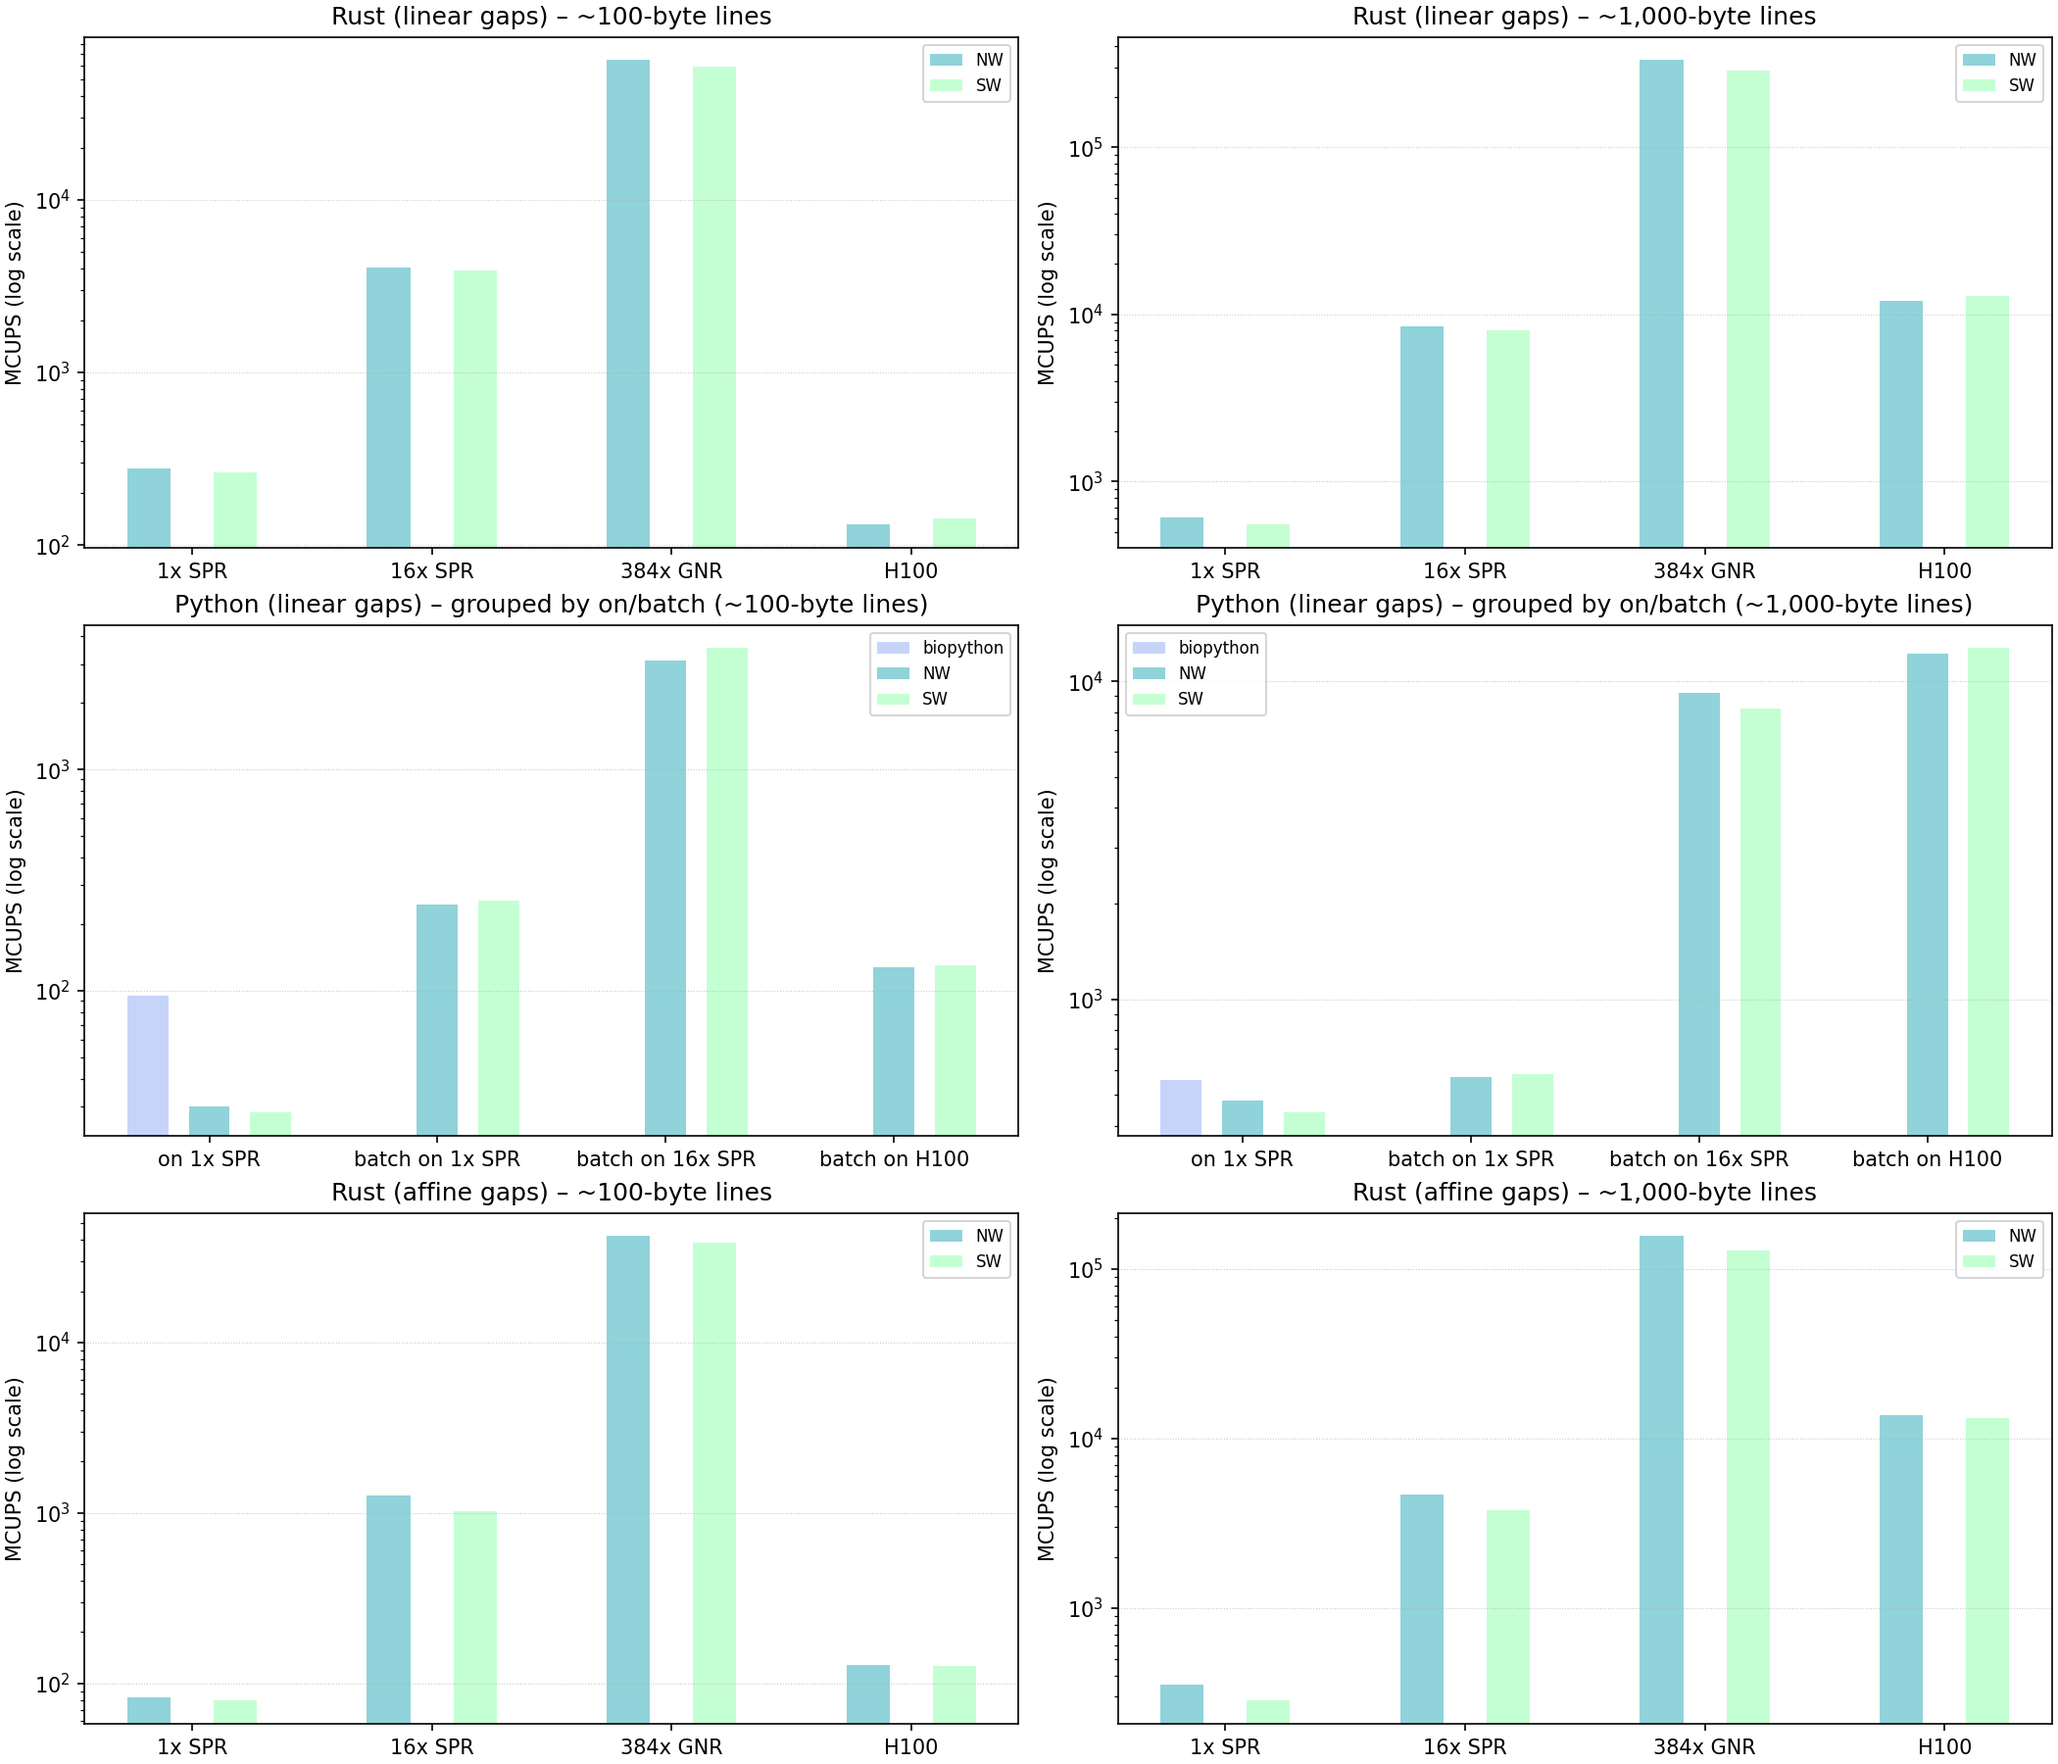
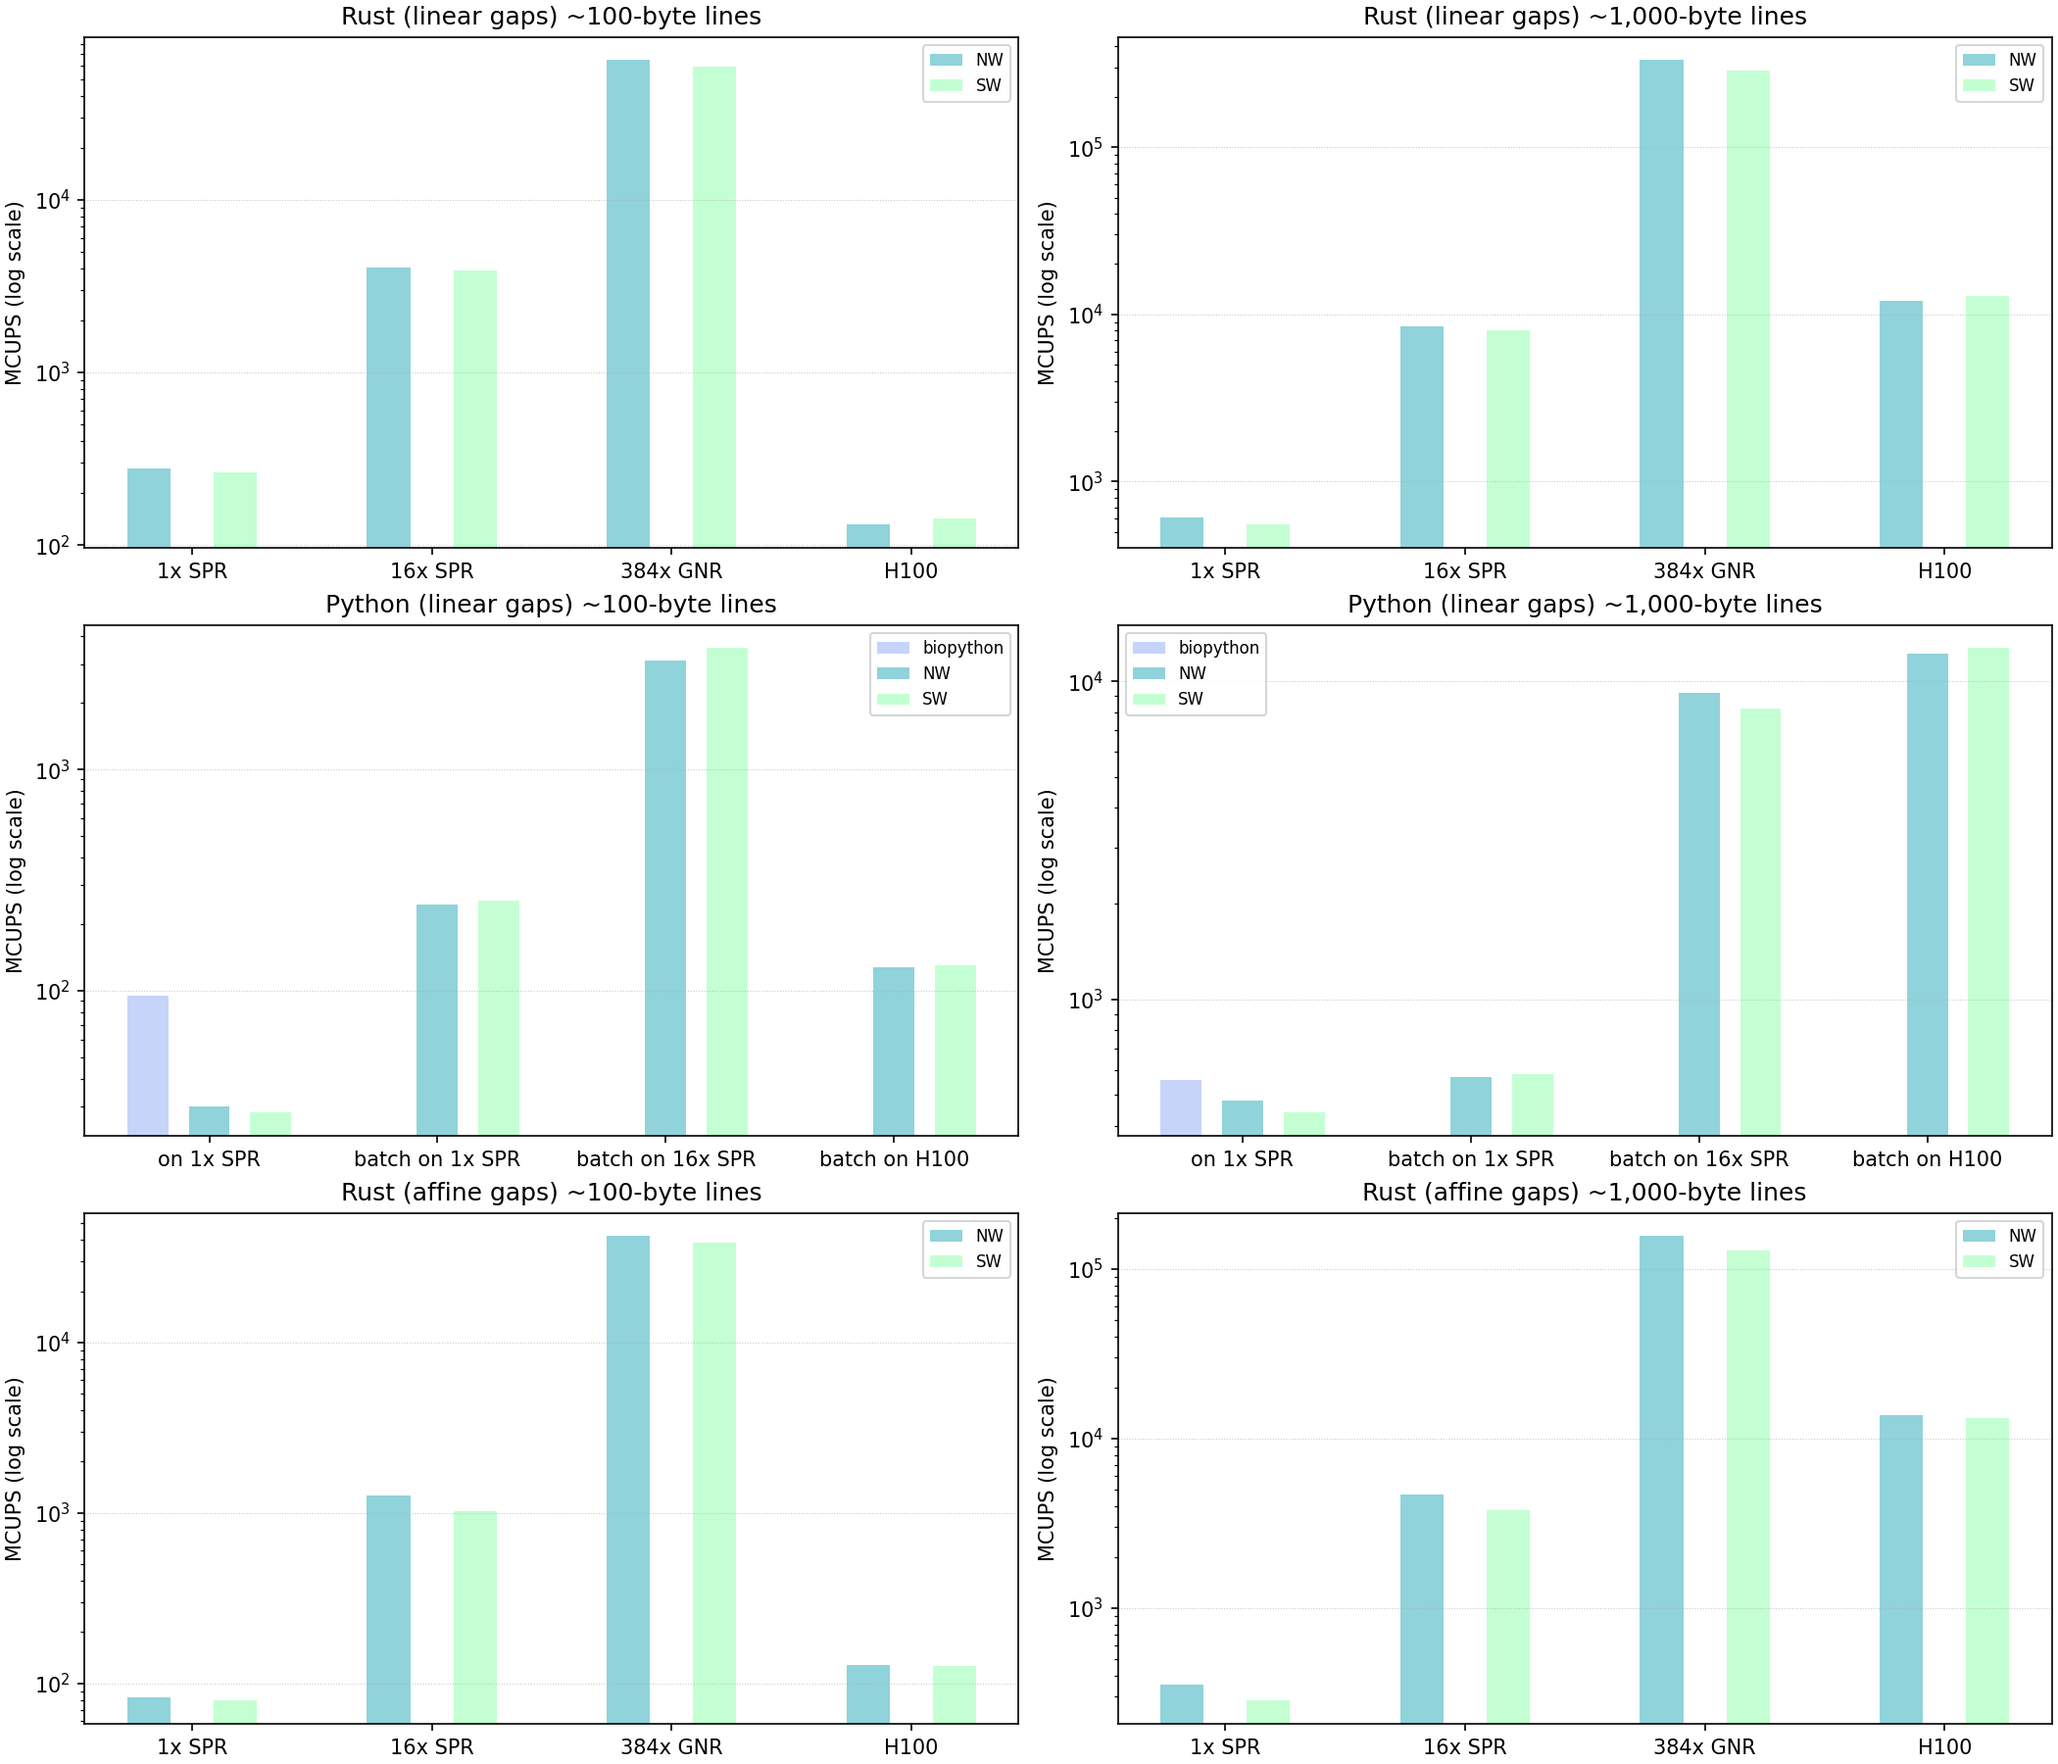
v2

diff --git a/StringZilla_v2.md b/StringZilla_v2.md
@@ -39,14 +39,14 @@ NLTK – despite >1B downloads – only manages \~2 MCUPS. RapidFuzz (Python) is
 
 Needleman-Wunsch and Smith-Waterman are better suited for biological sequences because they let you use custom substitution scores (e.g., BLOSUM/PAM). It’s also common to adopt Gotoh’s affine-gap model (gap-open + gap-extend) to more realistically represent indel events in DNA and protein evolution.
 
-Compared with Biopython’s PairwiseAligner.score on 1x SPR (95 MCUPS for \~100-byte lines and 557 MCUPS for \~1,000-byte lines), StringZilla’s SmithWatermanScores batch on 16x SPR hits 3,535 MCUPS on \~100-byte lines — about 37x faster; StringZilla’s SmithWatermanScores batch on H100 reaches 12,702 MCUPS on \~1,000-byte lines — about 23x faster.
+Compared with Biopython’s PairwiseAligner.score on 1x SPR (95 MCUPS for \~100-byte lines and 557 MCUPS for \~1,000-byte lines), StringZilla’s SmithWatermanScores batch on 16x SPR hits 3,535 MCUPS on \~100-byte lines – about 37x faster; StringZilla’s SmithWatermanScores batch on H100 reaches 12,702 MCUPS on \~1,000-byte lines – about 23x faster.
 
 ![Combined MCUPS 2x2 overview – Rust/Python x \~100B/\~1kB](graphs/substitution_bench_grouped_nebius.png)
-*Figure: Comparative MCUPS (log scale) for substitution edit distance: Rust (linear gaps) / Python (linear gaps) / Rust (affine gaps), \~100-byte and \~1,000-byte workloads, measured on CPU nodes and GPUs.*
+*Figure: Comparative MCUPS (log scale) for substitution edit distance: Rust (linear gaps) / Python (linear gaps) / Rust (affine gaps), \~100-byte and \~1,000-byte workloads, measured on CPU nodes and GPUs. Bioptyhon: biopython.PairwiseAligner.score, NW: stringzillas::NeedlemanWunschScores, SW: stringzillas::SmithWatermanScores.*
 
 ## Infrastructure and reproducibility
 
-The benchmarks were run on Nebius cloud GPU instances provisioned with NVIDIA H100 accelerators. Local CPU baselines were measured on Intel Sapphire Rapids cores and comparisons were made against AMD Zen4 in microbenchmarks where relevant. CUDA-enabled toolchains and platform-specific wheels were built and deployed via GitHub Actions to ensure consistent runtime environments across machines. RAPIDS (`cudf` / `nvtext`) was used as a representative GPU-enabled comparison stack and Biopython was used as a representative single-core CPU baseline for protein alignment workloads.
+The benchmarks were run on Nebius cloud GPU instances provisioned with Nvidia Hopper-based H100 and Blackwell-based RTX 6000 Pro GPUs. CPU baselines were measured on Intel Sapphire Rapids (SNR) and Granite Rapids (GNR) CPUs. CUDA-enabled toolchains and platform-specific wheels were built and deployed via GitHub Actions to ensure consistent runtime environments across machines. RAPIDS (`cudf` / `nvtext`) was used as a representative GPU-enabled comparison stack and Biopython was used as a representative single-core CPU baseline for protein alignment workloads.
 
 ## Future roadmap and next steps
 
